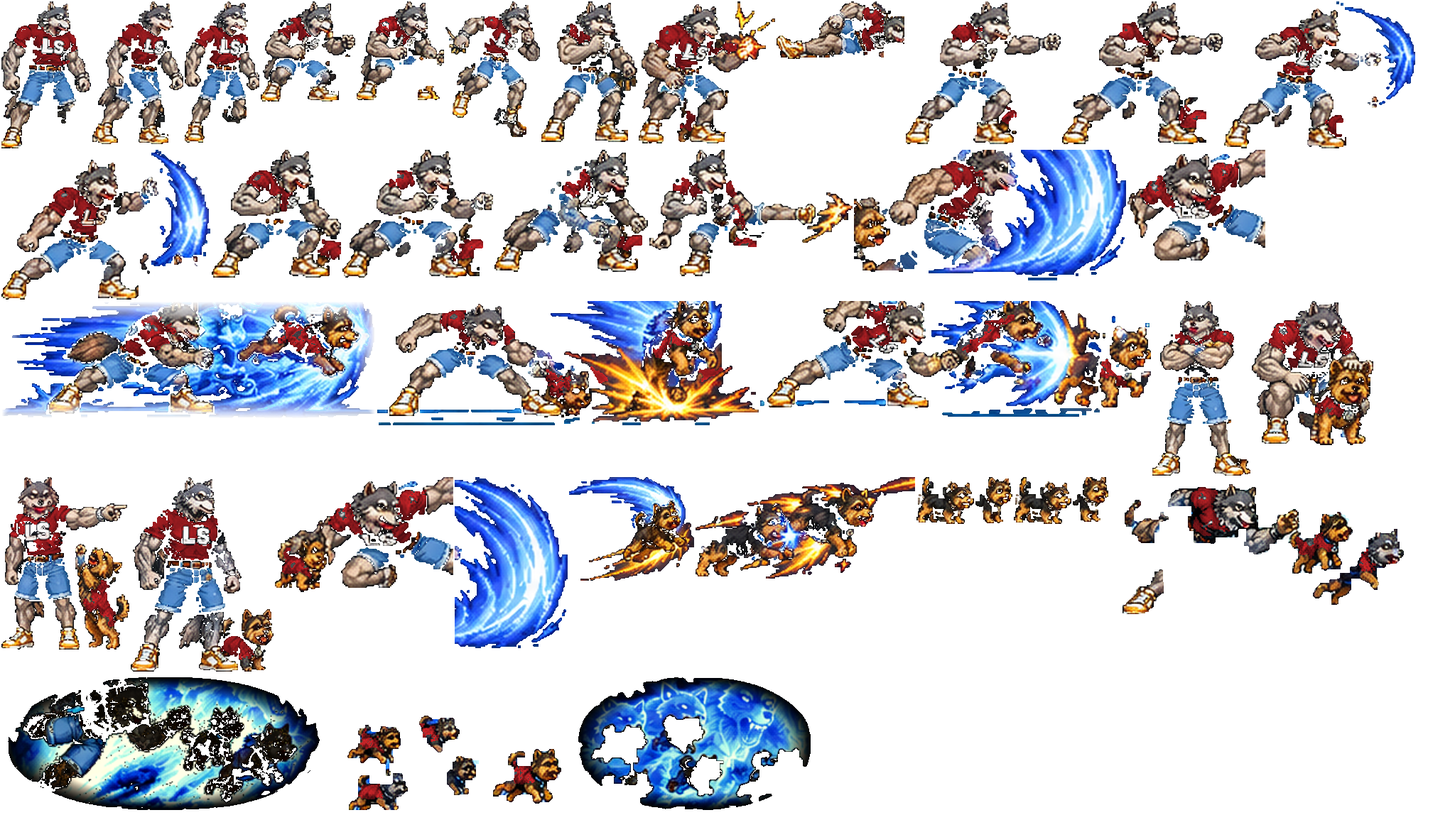
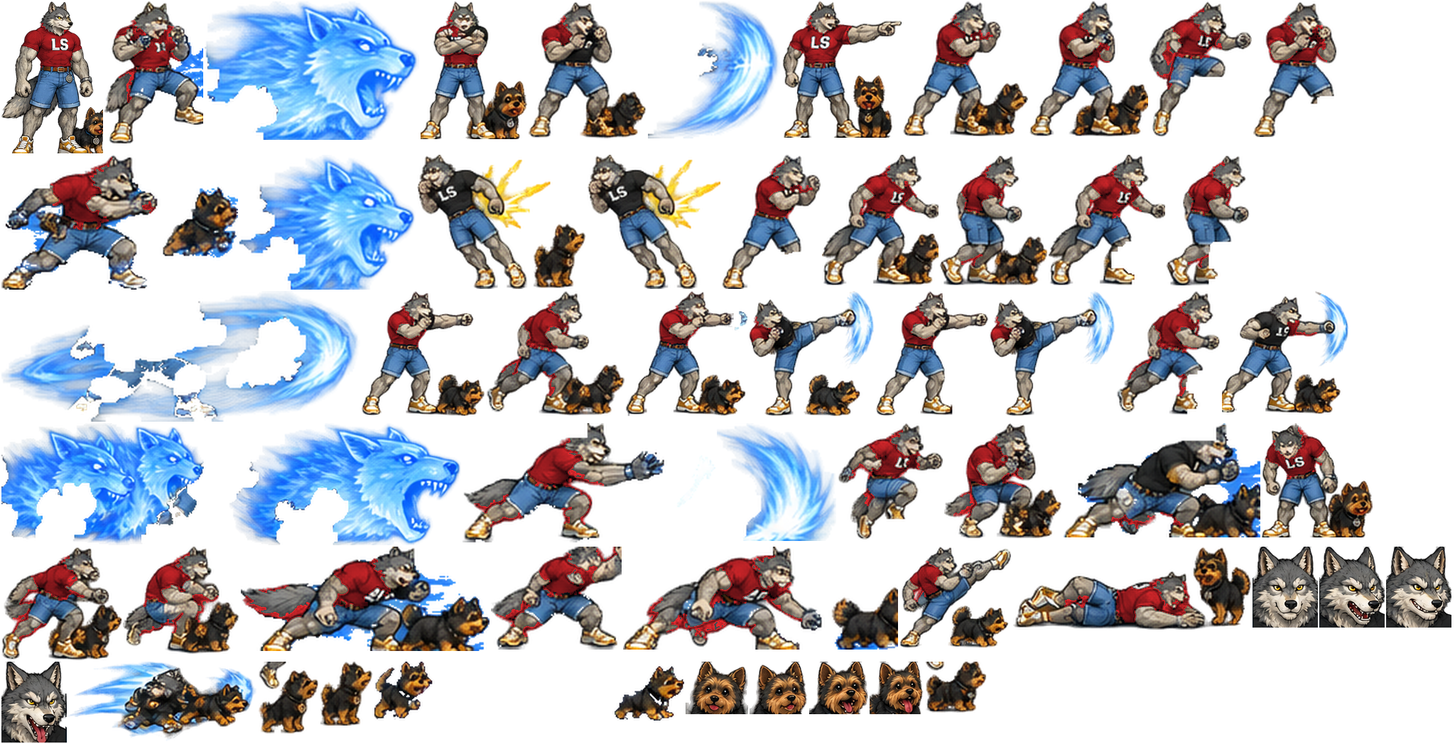
v0.5.3: Lobo refeito com a nova ficha (Claw Slash, Dog Throw, Wolf Spin, Alpha Rush, Tail Sweep, Alpha Roar, super Alpha Pack Lv1/Lv2), Yorkshire no card e HUD (cache bvf-v0.5-3)

diff --git a/js/fighters.js b/js/fighters.js
@@ -39,32 +39,34 @@ const CHARS = {
     proj: { speed: 6.5, dmg: 80, stun: 22, bstun: 14, push: 9, chip: 10, cooldown: 110 },
   },
   lobo: {
-    id: 'lobo', name: 'LOBO SOLITÁRIO', hud: 'LOBO', title: 'The Lone Alpha (+ Yorkshire)', hp: 1000, walkF: 3.3, walkB: 2.8, jumpVX: 4.0, jumpVY: -15.2,
-    standH: 205, crouchH: 140, special: 'lobo', lobo: 1, rich: 1, meterName: 'ALPHA', supers: ['LOBO E SEU AMIGO', 'ALPHA PACK'], superSfx: 'howl',
+    id: 'lobo', name: 'LOBO SOLITÁRIO', hud: 'LOBO', title: 'The Lone Alpha + Yorkshire', hp: 1000, walkF: 3.3, walkB: 2.8, jumpVX: 4.0, jumpVY: -15.2,
+    standH: 200, crouchH: 140, special: 'lobo', lobo: 1, rich: 1, meterName: 'ALPHA', supers: ['ALPHA PACK', 'ALPHA PACK MÁXIMO'], superSfx: 'howl',
     moves: {
-      lp: mv({ anim: 'jab', frames: [{ f: 0, d: 3, anim: 'guard' }, { f: 0, d: 4, a: 1 }, { f: 0, d: 7, anim: 'guard' }], hit: { x0: 25, x1: 92, y0: -175, y1: -135, dmg: 45, stun: 15, bstun: 10, push: 5 }, sfx: 'whoosh' }),
-      hp: mv({ anim: 'fierce', frames: [{ f: 0, d: 6, anim: 'strong' }, { f: 0, d: 6, a: 1 }, { f: 0, d: 12, anim: 'strong' }], hit: { x0: 30, x1: 112, y0: -170, y1: -120, dmg: 80, stun: 19, bstun: 12, push: 8, heavy: 1 }, sfx: 'whoosh' }),
-      lk: mv({ anim: 'claw', frames: [{ f: 0, d: 5, anim: 'strong' }, { f: 0, d: 6, a: 1 }, { f: 0, d: 11, anim: 'guard' }], hit: { x0: 40, x1: 145, y0: -168, y1: -100, dmg: 70, stun: 17, bstun: 11, push: 7 }, sfx: 'whip' }),
-      cp: mv({ anim: 'clp', crouch: 1, frames: [{ f: 0, d: 3, anim: 'crouch' }, { f: 0, d: 4, a: 1, anim: 'cmp' }, { f: 0, d: 7, anim: 'clp' }], hit: { x0: 25, x1: 100, y0: -118, y1: -80, dmg: 40, stun: 13, bstun: 9, push: 5 }, sfx: 'whoosh' }),
-      ck: mv({ anim: 'lowk', crouch: 1, frames: [{ f: 0, d: 5, anim: 'chp' }, { f: 0, d: 5, a: 1 }, { f: 0, d: 12, anim: 'crouch' }], hit: { x0: 35, x1: 150, y0: -40, y1: 0, dmg: 50, stun: 15, bstun: 11, push: 6, lvl: 'low' }, sfx: 'whoosh' }),
-      jp: mv({ anim: 'jab', air: 1, frames: [{ f: 0, d: 3, anim: 'jump' }, { f: 0, d: 30, a: 1, v: { oy: -14 } }], hit: { x0: 20, x1: 90, y0: -170, y1: -110, dmg: 55, stun: 16, bstun: 10, push: 4, lvl: 'high' }, sfx: 'whoosh' }),
-      jk: mv({ anim: 'lowk', air: 1, frames: [{ f: 0, d: 4, anim: 'jump' }, { f: 0, d: 30, a: 1, v: { oy: -40 } }], hit: { x0: 35, x1: 140, y0: -120, y1: -50, dmg: 65, stun: 17, bstun: 11, push: 5, lvl: 'high' }, sfx: 'whoosh' }),
-      slash: mv({ anim: 'slash', special: 1, frames: [{ f: 0, d: 9, anim: 'fierce' }, { f: 0, d: 14, spawn: 'wave', sfx: 'whip' }, { f: 0, d: 10, anim: 'guard' }], hit: null }),
-      throw: mv({ anim: 'throw', special: 1, frames: [{ f: 0, d: 8, anim: 'throwhold' }, { f: 0, d: 20, spawn: 'dog', sfx: 'bark' }, { f: 0, d: 6, anim: 'guard' }], hit: null }),
-      rush: mv({ anim: 'rush', special: 1, frames: [{ f: 0, d: 8, anim: 'crouch' }, { f: 0, d: 16, a: 1, vx: 9, sfx: 'whoosh' }, { f: 0, d: 16, anim: 'guard', vx: 0 }],
-        hit: { x0: 10, x1: 150, y0: -160, y1: -40, dmg: 90, stun: 22, bstun: 14, push: 10, heavy: 1, chip: 10, knock: 1 } }),
-      sweep: mv({ anim: 'sweep', special: 1, crouch: 1, frames: [{ f: 0, d: 9, anim: 'crouch' }, { f: 0, d: 12, a: 1, sfx: 'bark' }, { f: 0, d: 16, anim: 'crouch' }],
-        hit: { x0: 60, x1: 270, y0: -70, y1: 0, dmg: 70, stun: 20, bstun: 12, push: 8, lvl: 'low', chip: 8, knock: 1 } }),
-      double: mv({ anim: 'double', special: 1, frames: [{ f: 0, d: 10, anim: 'strong' }, { f: 0, d: 12, a: 1, sfx: 'bark' }, { f: 0, d: 20, anim: 'guard' }],
-        hit: { x0: 30, x1: 230, y0: -150, y1: -30, dmg: 100, stun: 22, bstun: 14, push: 10, heavy: 1, chip: 12, knock: 1 } }),
-      super1: mv({ anim: 'fierce', special: 1, frames: [{ f: 0, d: 6, anim: 'guard' }, { f: 0, d: 10, a: 1, rh: 1, vx: 7, anim: 'fierce' }, { f: 0, d: 10, a: 1, rh: 1, vx: 7, anim: 'claw' }, { f: 0, d: 10, a: 1, rh: 1, vx: 7, anim: 'strong', hb: { knock: 1, dmg: 90, heavy: 1, push: 10 } }, { f: 0, d: 18, anim: 'claw', vx: 0 }],
-        hit: { x0: 0, x1: 220, y0: -190, y1: 0, dmg: 70, stun: 26, bstun: 12, push: 3, chip: 15, nomtr: 1 } }),
-      super2: mv({ anim: 'claw', special: 1, frames: [{ f: 0, d: 14, anim: 'taunt', sfx: 'howl' }, { f: 0, d: 18, spawn: 'pack' }, { f: 0, d: 16, anim: 'guard' }], hit: null }),
+      lp: mv({ anim: 'jab', frames: [{ f: 0, d: 3, anim: 'guard' }, { f: 0, d: 4, a: 1 }, { f: 0, d: 7 }], hit: { x0: 25, x1: 95, y0: -175, y1: -135, dmg: 45, stun: 15, bstun: 10, push: 5 }, sfx: 'whoosh' }),
+      hp: mv({ anim: 'fierce', frames: [{ f: 0, d: 6, anim: 'strong' }, { f: 0, d: 6, a: 1 }, { f: 0, d: 12, anim: 'strong' }], hit: { x0: 30, x1: 115, y0: -172, y1: -120, dmg: 80, stun: 19, bstun: 12, push: 8, heavy: 1 }, sfx: 'whoosh' }),
+      lk: mv({ anim: 'hk', frames: [{ f: 0, d: 5, anim: 'lowk' }, { f: 0, d: 6, a: 1 }, { f: 0, d: 11, anim: 'guard' }], hit: { x0: 35, x1: 140, y0: -170, y1: -100, dmg: 70, stun: 17, bstun: 11, push: 7 }, sfx: 'whip' }),
+      cp: mv({ anim: 'crouch', crouch: 1, fx: 'jab', frames: [{ f: 0, d: 3, anim: 'cblock' }, { f: 0, d: 4, a: 1 }, { f: 0, d: 7, anim: 'cblock' }], hit: { x0: 25, x1: 100, y0: -118, y1: -80, dmg: 40, stun: 13, bstun: 9, push: 5 }, sfx: 'whoosh' }),
+      ck: mv({ anim: 'sweep', crouch: 1, frames: [{ f: 0, d: 5, anim: 'crouch' }, { f: 0, d: 5, a: 1 }, { f: 0, d: 12, anim: 'crouch' }], hit: { x0: 35, x1: 150, y0: -40, y1: 0, dmg: 50, stun: 15, bstun: 11, push: 6, lvl: 'low' }, sfx: 'whoosh' }),
+      jp: mv({ anim: 'jpa', air: 1, frames: [{ f: 0, d: 3, anim: 'jump' }, { f: 0, d: 30, a: 1, v: { oy: -14 } }], hit: { x0: 20, x1: 90, y0: -170, y1: -110, dmg: 55, stun: 16, bstun: 10, push: 4, lvl: 'high' }, sfx: 'whoosh' }),
+      jk: mv({ anim: 'jka', air: 1, frames: [{ f: 0, d: 4, anim: 'jump' }, { f: 0, d: 30, a: 1, v: { oy: -30 } }], hit: { x0: 35, x1: 140, y0: -150, y1: -60, dmg: 65, stun: 17, bstun: 11, push: 5, lvl: 'high' }, sfx: 'whoosh' }),
+      slash: mv({ anim: 'slash', special: 1, frames: [{ f: 0, d: 9, anim: 'guard' }, { f: 0, d: 14, spawn: 'wave', sfx: 'whip' }, { f: 0, d: 10 }], hit: null }),
+      throw: mv({ anim: 'throw', special: 1, frames: [{ f: 0, d: 8, anim: 'crouch' }, { f: 0, d: 18, spawn: 'dog', sfx: 'bark' }, { f: 0, d: 6 }], hit: null }),
+      spin: mv({ anim: 'spin', special: 1, fx2: 'spinfx', frames: [{ f: 0, d: 6, anim: 'cblock' }, { f: 0, d: 8, a: 1, vx: 3, sfx: 'whip' }, { f: 0, d: 8, a: 1, rh: 1, vx: 3 }, { f: 0, d: 8, a: 1, rh: 1, vx: 2, hb: { knock: 1, dmg: 45, push: 10 } }, { f: 0, d: 14, anim: 'guard', vx: 0 }],
+        hit: { x0: -40, x1: 150, y0: -170, y1: -10, dmg: 35, stun: 18, bstun: 10, push: 3, chip: 6 } }),
+      rush: mv({ anim: 'rush', special: 1, fx2: 'rushhead', frames: [{ f: 0, d: 8, anim: 'crouch' }, { f: 0, d: 16, a: 1, vx: 9, sfx: 'howl' }, { f: 0, d: 14, anim: 'guard', vx: 0 }],
+        hit: { x0: 10, x1: 190, y0: -170, y1: -30, dmg: 90, stun: 22, bstun: 14, push: 10, heavy: 1, chip: 10, knock: 1 } }),
+      sweep: mv({ anim: 'sweep', special: 1, crouch: 1, fx2: 'sweepfx', frames: [{ f: 0, d: 9, anim: 'crouch' }, { f: 0, d: 12, a: 1, sfx: 'bark' }, { f: 0, d: 16, anim: 'crouch' }],
+        hit: { x0: 50, x1: 250, y0: -70, y1: 0, dmg: 70, stun: 20, bstun: 12, push: 8, lvl: 'low', chip: 8, knock: 1 } }),
+      roar: mv({ anim: 'roar', special: 1, frames: [{ f: 0, d: 10, anim: 'guard' }, { f: 0, d: 20, spawn: 'roar', sfx: 'howl' }, { f: 0, d: 12 }], hit: null }),
+      super1: mv({ anim: 'rush', special: 1, frames: [{ f: 0, d: 12, anim: 'superpose' }, { f: 0, d: 22, spawn: 'pack', vx: 5 }, { f: 0, d: 14, anim: 'guard', vx: 0 }], hit: null }),
+      super2: mv({ anim: 'rush', special: 1, frames: [{ f: 0, d: 12, anim: 'superpose' }, { f: 0, d: 26, spawn: 'pack2', vx: 6 }, { f: 0, d: 14, anim: 'taunt', vx: 0 }], hit: null }),
     },
     projs: {
-      wave: { speed: 7, dmg: 75, stun: 22, bstun: 14, push: 9, chip: 10, cooldown: 100, ox: 110, oy: 110, bw: 26, bh: 60 },
-      dog: { speed: 8, dmg: 30, stun: 24, bstun: 14, push: 3, chip: 6, cooldown: 140, ox: 70, oy: 60, bw: 40, bh: 45, maxHits: 3, gap: 12, knockLast: 1, life: 140 },
-      pack: { speed: 6, dmg: 85, stun: 30, bstun: 16, push: 4, chip: 15, ox: 150, oy: 100, bw: 150, bh: 100, maxHits: 3, gap: 9, knockLast: 1, pierce: 1, nomtr: 1 },
+      wave: { speed: 7.5, dmg: 75, stun: 22, bstun: 14, push: 9, chip: 10, cooldown: 100, ox: 95, oy: 95, bw: 30, bh: 60 },
+      dog: { speed: 9, dmg: 30, stun: 24, bstun: 14, push: 3, chip: 6, cooldown: 140, ox: 110, oy: 70, bw: 40, bh: 40, maxHits: 3, gap: 12, knockLast: 1, life: 80 },
+      roar: { speed: 6, dmg: 55, stun: 24, bstun: 14, push: 6, chip: 10, cooldown: 130, ox: 120, oy: 110, bw: 60, bh: 75, maxHits: 2, gap: 10, knockLast: 1 },
+      pack: { speed: 8, dmg: 85, stun: 30, bstun: 16, push: 4, chip: 15, ox: 120, oy: 100, bw: 150, bh: 100, maxHits: 3, gap: 9, knockLast: 1, pierce: 1, nomtr: 1 },
+      pack2: { speed: 9, dmg: 80, stun: 30, bstun: 16, push: 4, chip: 18, ox: 120, oy: 110, bw: 170, bh: 115, maxHits: 5, gap: 7, knockLast: 1, pierce: 1, nomtr: 1, big: 1 },
     },
   },
   go: {
@@ -136,7 +138,7 @@ class Fighter {
     this.x = side === 0 ? 300 : 660; this.y = FLOOR; this.vx = 0; this.vy = 0; this.facing = side === 0 ? 1 : -1;
     this.hp = this.c.hp; this.state = 'idle'; this.t = 0; this.move = null; this.mt = 0; this.hitDone = false; this.stun = 0;
     this.crouching = false; this.cool = 0; this.flash = 0; this.dirHist = []; this.prev = {}; this.inv = 0; this.pushV = 0; this.combo = 0; this.animT = 0; this.pt = {};
-    this.pup = this.c.lobo ? { x: this.x + this.facing * 58, face: this.facing, t: 0, away: false, ret: false, moving: false, hide: false } : null; this.trail = []; this.lastV = null; this.trans = null;
+    this.pup = this.c.lobo ? { x: this.x + this.facing * 55, face: this.facing, t: 0, away: false, ret: false, moving: false, hide: true } : null; this.trail = []; this.lastV = null; this.trans = null;
   }
   get air() { return this.y < FLOOR - 0.01 || this.state === 'air' || this.state === 'fall'; }
   dirNum(inp) { // numpad notation relative to facing
@@ -207,46 +209,47 @@ class Fighter {
   motion(seq, n = 16) { const h = this.dirHist.slice(-n); let k = 0; for (const v of h) if (v === seq[k]) { k++; if (k === seq.length) return true; } return false; }
   dashF() { const h = this.dirHist.slice(-16); let i = h.length - 1; if (h[i] !== 6) return false; while (i >= 0 && h[i] === 6) i--; let j = i; while (j >= 0 && h[j] !== 6 && h[j] === 5) j--; return j >= 0 && j < i && h[j] === 6 && i - j <= 10; }
   // Lobo Solitário command list (keyboard + touch friendly). cancel=true: only P+K combos/supers in the first frames of a normal.
+  // Touch: Especial (=Claw Slash), +← Dog Throw, +→ Alpha Rush, +↓ Tail Sweep, +↘ Alpha Roar, Soco+Chute Wolf Spin,
+  // Especial+Soco / Especial+Chute / SUPER = super (Lv2 with 2 bars). Keyboard motions follow the sheet:
+  // ↓↘→P claw, ↓↙←K dog, →→P rush, ↓↘→K sweep, ↓↙←P roar, ↓↘→↓↘→ P+K super.
   loboInput(press, d, G, cancel) {
     const P = press.punch, K = press.kick, S = press.special;
-    // chord = both buttons went down within 5 frames (~80 ms) of each other, in any order, on any device
     const rec = k => press[k] || this.tick - (this.pt[k] || -99) <= 5;
     const chord = (a, b) => (press[a] || press[b]) && rec(a) && rec(b);
     const used = (...ks) => { for (const k of ks) this.pt[k] = -99; };
-    const q = this.motion([2, 3, 6]), qb = this.motion([2, 1, 4]);
-    if (press.super && this.meter >= 100) return this.doSuper(this.meter >= 200 ? 2 : 1, G);
-    if (this.meter >= 200 && (chord('special', 'kick') || (qb && chord('punch', 'kick')))) { used('special', 'kick', 'punch'); return this.doSuper(2, G); }
-    if (this.meter >= 100 && (chord('special', 'punch') || (q && chord('punch', 'kick')))) { used('special', 'punch', 'kick'); return this.doSuper(1, G); }
-    if (chord('punch', 'kick')) { used('punch', 'kick'); if (this.moveName === 'double' && this.state === 'attack') return true; this.startMove('double', G); return true; }
+    const q = this.motion([2, 3, 6]), qb = this.motion([2, 1, 4]), qq = this.motion([2, 3, 6, 2, 3, 6], 24);
+    const lv = () => this.meter >= 200 ? 2 : 1;
+    if (press.super && this.meter >= 100) return this.doSuper(lv(), G);
+    if (this.meter >= 100 && (chord('special', 'punch') || chord('special', 'kick') || (qq && chord('punch', 'kick')))) { used('special', 'punch', 'kick'); return this.doSuper(lv(), G); }
+    if (chord('punch', 'kick')) { used('punch', 'kick'); if (this.moveName === 'spin' && this.state === 'attack') return true; this.startMove('spin', G); return true; }
     if (cancel) return false;
-    const ownProj = G.projectiles.some(p => p.owner === this && p.kind !== 'pack');
+    const busy = k => G.projectiles.some(p => p.owner === this && p.kind === k);
     let mvn = null;
-    if (S) mvn = d === 4 || d === 1 ? 'throw' : d === 6 ? 'rush' : d === 2 || d === 3 ? 'sweep' : 'slash';
+    if (S) mvn = d === 4 || d === 1 ? 'throw' : d === 6 ? 'rush' : d === 2 ? 'sweep' : d === 3 ? 'roar' : 'slash';
     else if (K && qb) mvn = 'throw';
     else if (K && q) mvn = 'sweep';
+    else if (P && qb) mvn = 'roar';
     else if (P && (q || d === 3)) mvn = 'slash';
     else if (P && this.dashF()) mvn = 'rush';
     if (!mvn) return false;
-    if ((mvn === 'slash' || mvn === 'throw') && (this.cool > 0 || ownProj)) return S; // eat the button, nothing happens
+    if ((mvn === 'slash' || mvn === 'roar' || mvn === 'throw') && (this.cool > 0 || busy('wave') || busy('roar') || busy('dog') || (this.pup && this.pup.ret))) return S;
     this.startMove(mvn, G); this.meter = Math.min(200, this.meter + 4); return true;
   }
   // The Yorkshire is its own sprite: follows the wolf, leaves during Dog Throw and runs back afterwards.
+  // The Yorkshire is baked into most of the user's poses (it stands next to the wolf). It becomes its own sprite only
+  // when the wolf leaves the floor (jumps / falls: the dog waits on the ground) and during Dog Throw (flies, bites, runs back).
   updPup(G) {
     const p = this.pup; p.t++;
-    const away = G.projectiles.some(q => q.owner === this && q.kind === 'dog');
-    if (away) { p.away = true; p.hide = true; return; }
+    if (G.projectiles.some(q => q.owner === this && q.kind === 'dog')) { p.away = true; p.hide = true; return; }
     if (p.away) { p.away = false; p.ret = true; p.x = this.lastDogX != null ? this.lastDogX : p.x; }
-    const mvn = this.state === 'attack' ? this.moveName : '';
-    const winBaked = this.state === 'win' && (this.winPose || 0) % 3 !== 0;
-    p.hide = ['throw', 'rush', 'sweep', 'double', 'slash', 'super2'].includes(mvn) || winBaked;
-    if (p.hide) { p.x = this.x + this.facing * 58; p.ret = false; p.moving = false; return; }
-    const lying = ['fall', 'down', 'ko'].includes(this.state);
-    const tx = this.x + this.facing * (mvn === 'super1' ? 120 : 58);
-    const dx = tx - p.x, ad = Math.abs(dx);
-    if (lying && !p.ret) { p.moving = false; p.face = Math.sign(this.x - p.x) || p.face; return; }
-    if (ad > 2) { const sp = p.ret ? 9 : mvn === 'super1' ? 10 : Math.max(1.5, Math.min(7, ad * 0.18)); p.x += Math.sign(dx) * Math.min(ad, sp); p.moving = ad > 4; p.face = p.moving ? Math.sign(dx) : this.facing; }
-    else { p.moving = false; p.ret = false; p.face = this.facing; }
+    const tx = this.x + this.facing * 55, dx = tx - p.x, ad = Math.abs(dx);
+    if (p.ret) { p.hide = false; p.moving = true; p.face = Math.sign(dx) || p.face; p.x += Math.sign(dx) * Math.min(ad, 10); if (ad < 12) { p.ret = false; p.moving = false; } return; }
+    p.moving = false; p.face = this.facing;
+    const off = this.air || ['fall'].includes(this.state);
+    if (off) { p.hide = false; return; } // stays where it was
+    p.hide = true; p.x = tx;
   }
+  dogOut() { return this.pup && (this.pup.away || this.pup.ret); }
   doSuper(lvl, G) { this.meter -= lvl * 100; this.startMove(lvl === 1 ? 'super1' : 'super2', G); G.superFlash = { t: 0, f: this, name: this.c.supers[lvl - 1] }; G.hitstop = 26; SFX.play(this.c.superSfx); return true; }
   cmdInput(press, d, G, cancel) { return this.id === 'go' ? this.goInput(press, d, G, cancel) : this.loboInput(press, d, G, cancel); }
   // G.O. command list. Touch: Especial (+← +→ +↓ +↘), Soco+Chute, Especial+Soco / Especial+Chute (supers), SUPER button.
@@ -411,7 +414,7 @@ function jogadorVisual(f) {
 // Lobo Solitário: every key pose is a crop of the user's character sheet (tools/build_lobo.py). In-between motion is
 // tweened here (ease in/out offsets, squash & stretch, rotation arcs, cross-fade ghosts, afterimages) - no new art.
 const easeO = x => 1 - (1 - x) * (1 - x), clamp01 = x => Math.max(0, Math.min(1, x));
-function loboVisual(f) {
+function baseVisual(f) {
   const s = f.state, t = f.animT, st = f.t;
   if (s === 'attack' && f.move) {
     const m = f.move, fr = f.curFrame(), i = m.frames.indexOf(fr), p = clamp01((f.mt - f.frameStart(fr)) / fr.d);
@@ -443,11 +446,26 @@ function loboVisual(f) {
     default: { const b = Math.sin(t / 18); return { anim: 'idle', idx: 0, sy: 1 + 0.016 * b, sx: 1 - 0.006 * b, oy: 0 }; }
   }
 }
+// Lobo v3: same tween rig, with the new sheet's own keys (2 idles, 2 walks, jump start / back / jump / land) and
+// dog-less variants while the Yorkshire is away (Dog Throw) or the wolf is airborne.
+const LOBO_NODOG = { idle: 'idleN', walk: 'walkN', guard: 'guardN', crouch: 'crouchN', cblock: 'crouchN', jumpsq: 'crouchN', land: 'crouchN', hit: 'hitw',
+  jab: 'jpa', strong: 'jpa', fierce: 'jpa', hk: 'jka', lowk: 'jka', spin: 'throw', sweep: 'throw' };
+function loboVisual(f) {
+  const v = baseVisual(f), s = f.state, st = f.t, t = f.animT;
+  if (s === 'idle' || (s !== 'attack' && v.anim === 'idle')) { v.idx = Math.floor(t / 34) % 2; }
+  else if (s === 'walk') { const ph = t / 10; v.idx = Math.floor(ph) % 2; }
+  else if (s === 'jumpsq') { v.anim = 'jumpsq'; v.sy = 0.96; v.sx = 1.03; }
+  else if (s === 'land') { const k = clamp01(st / 6); v.anim = 'land'; v.sy = 0.94 + 0.06 * easeO(k); v.sx = 1.04 - 0.04 * k; }
+  else if (s === 'air') v.anim = f.vx * f.facing < -0.5 ? 'jumpb' : 'jump';
+  else if (s === 'fall' && v.anim === 'hit') v.anim = 'hitw';
+  if (f.dogOut() && LOBO_NODOG[v.anim]) v.anim = LOBO_NODOG[v.anim];
+  return v;
+}
 // G.O.: same tween rig as Lobo, plus the sheet's 3 idle and 3 walk frames and its own jump/land/guard keys.
 function goVisual(f) {
   const s = f.state, t = f.animT, st = f.t;
   if (s === 'attack' && f.move) {
-    const v = loboVisual(f), mvn = f.moveName;
+    const v = baseVisual(f), mvn = f.moveName;
     if (mvn === 'super1' || mvn === 'super2') { const fr = f.curFrame(); if (fr.spawn) { v.ox = 0; v.rot = 0; v.sx = 1; v.sy = 1 + 0.01 * Math.sin(t / 3); } }
     return v;
   }
@@ -463,15 +481,14 @@ function goVisual(f) {
     case 'getup': { if (st < 12) { const k = st / 12; return { anim: 'crouch', idx: 0, sy: 0.6 + 0.4 * easeO(k), rot: -0.2 * (1 - k), ox: -6 }; }
       if (st < 20) return { anim: 'hunch', idx: 0, ox: -3 }; const k = clamp01((st - 20) / 8); return { anim: 'guard', idx: 0, sy: 0.95 + 0.05 * easeO(k) }; }
     case 'crouch': return { anim: 'crouch', idx: 0, sy: 1 + 0.01 * Math.sin(t / 16) };
-    default: return loboVisual(f);
+    default: return baseVisual(f);
   }
 }
 function drawPup(ctx, f, G) {
   const p = f.pup; if (!p || p.hide) return;
-  const anim = p.moving ? 'pupWalk' : (f.crouching || f.state === 'crouch') ? 'pupCrouch' : 'pupIdle';
-  const idx = p.moving ? cyc(p.t, 2, 5) : 0, oy = p.moving ? -Math.abs(Math.sin(p.t / 5 * Math.PI)) * 5 : 0;
+  const idx = p.moving ? [0, 2][cyc(p.t, 2, 5)] : 2, oy = p.moving ? -Math.abs(Math.sin(p.t / 5 * Math.PI)) * 6 : 0;
   ctx.save(); ctx.globalAlpha = 0.3; ctx.fillStyle = '#000'; ctx.beginPath(); ctx.ellipse(p.x, FLOOR + 2, 26, 5, 0, 0, Math.PI * 2); ctx.fill(); ctx.restore();
-  drawFrame(ctx, { id: 'lobo', x: p.x, y: FLOOR, facing: p.face, tinted: false }, anim, idx, { oy, sy: p.moving ? 1 : 1 + 0.02 * Math.sin(p.t / 14) });
+  drawFrame(ctx, { id: 'lobo', x: p.x, y: FLOOR, facing: p.face, tinted: false }, 'pupIdle', idx, { oy, sy: p.moving ? 1 : 1 + 0.02 * Math.sin(p.t / 14) });
 }
 function drawFighter(ctx, f, G) {
   if (!Sprites.ready) return;
@@ -482,13 +499,12 @@ function drawFighter(ctx, f, G) {
   ctx.beginPath(); ctx.ellipse(f.x, FLOOR + 2, Math.max(16, sw), 7, 0, 0, Math.PI * 2); ctx.fill(); ctx.restore();
   if (f.c.rich) {
     // cross-fade ghost of the previous key pose for a few frames = cheap in-between
-    if (f.lastV && (f.lastV.anim !== v.anim || (f.id === 'go' && f.lastV.idx !== v.idx))) f.trans = { v: f.lastV, t: 0 };
+    if (f.lastV && (f.lastV.anim !== v.anim || ((f.id === 'go' || f.id === 'lobo') && f.lastV.idx !== v.idx))) f.trans = { v: f.lastV, t: 0 };
     f.lastV = v;
     const mvn = f.state === 'attack' ? f.moveName : '';
-    const fast = (mvn === 'rush' || mvn === 'dash' || (mvn === 'super1' && f.id === 'lobo')) && f.curFrame() && f.curFrame().a;
+    const fast = (mvn === 'rush' || mvn === 'dash' || (/^super/.test(mvn) && f.id === 'lobo')) && f.curFrame() && f.curFrame().a;
     if (fast || (f.state === 'fall')) { if (G.frame % 2 === 0) f.trail.push({ x: f.x, y: f.y, v }); if (f.trail.length > 5) f.trail.shift(); } else if (f.trail.length) f.trail.shift();
-    if (f.id === 'lobo' && mvn === 'super1' && f.mt >= 4) { const m = Sprites.lobo.meta.super1a[0]; ctx.save(); ctx.globalCompositeOperation = 'screen'; ctx.globalAlpha = Math.min(1, (f.mt - 4) / 6) * (0.8 + 0.2 * Math.sin(G.frame / 2));
-      drawFrame(ctx, { ...f, tinted: false }, 'super1a', 0, { ox: 30, oy: 0 }); ctx.restore(); }
+    if (f.id === 'lobo') drawLoboAura(ctx, f, G, v, mvn);
     if (f.id === 'go') drawGoAura(ctx, f, G, v, mvn);
     ctx.save(); ctx.globalCompositeOperation = 'lighter';
     f.trail.forEach((tr, i) => drawFrame(ctx, { ...f, x: tr.x, y: tr.y }, tr.v.anim, tr.v.idx, { ...tr.v, alpha: 0.10 + i * 0.05 }));
@@ -501,6 +517,17 @@ function drawFighter(ctx, f, G) {
   if (f.flash > 0) drawFrame(ctx, f, v.anim, v.idx, { ...v, white: true, alpha: Math.min(0.5, f.flash / 8) });
   // move effects (honest approximations for frames the art does not have)
   if (f.state === 'attack' && f.move && f.move.fx) { const fr = f.curFrame(); if (fr.a) drawSwoosh(ctx, f, f.move.fx, f.move.hit); }
+}
+// Lobo light layers: the sheet's own blue effects (cut as glow-only sprites), drawn additive behind the body
+function drawLoboAura(ctx, f, G, v, mvn) {
+  const m = f.move, fr = f.curFrame && f.curFrame(); if (!m || !m.fx2 || !fr || !fr.a) return;
+  const k = clamp01((f.mt - f.frameStart(fr)) / 4);
+  ctx.save(); ctx.globalCompositeOperation = 'screen';
+  const o = { id: 'lobo', x: f.x, y: f.y, facing: f.facing, tinted: false };
+  if (m.fx2 === 'rushhead') drawFrame(ctx, o, 'rushhead', 0, { ox: 60, oy: -6, alpha: 0.9 * k, sx: 0.9 + 0.1 * k, sy: 0.9 + 0.1 * k });
+  else if (m.fx2 === 'sweepfx') drawFrame(ctx, o, 'sweepfx', 0, { ox: 120, oy: 0, alpha: 0.9 * k });
+  else drawFrame(ctx, o, m.fx2, 0, { ...v, alpha: 0.85 * k, rot: (v.rot || 0) + Math.sin(G.frame / 3) * 0.03 });
+  ctx.restore();
 }
 // G.O. light layers (additive, cut from the sheet's own effect art)
 function drawGoAura(ctx, f, G, v, mvn) {

diff --git a/js/game.js b/js/game.js
@@ -238,7 +238,7 @@ function updateProjectiles() {
   }
   G.projectiles = G.projectiles.filter(p => !p.dead);
 }
-// Lobo projectiles: wave (Alpha Claw Slash), dog (Dog Throw -> Yorkshire Attack, latches and bites up to 3x), pack (Alpha Pack super)
+// Lobo projectiles: wave (Claw Slash), dog (Dog Throw, bites up to 3x), roar (Alpha Roar), pack/pack2 (super Lv1/Lv2)
 function updateLoboProj(p, def) {
   const P = p.P; p.t++; if (p.hcd > 0) p.hcd--;
   if (P.grav) { p.vy += P.grav; p.y += p.vy; if (p.y > FLOOR - 12) p.dead = true; }
@@ -287,17 +287,18 @@ G.randomize = function (me, opp) { // Randomize: roll the dice -> one of 4 outco
 };
 function drawLoboProj(p) {
   if (p.owner.id === 'go') return drawGoProj(p);
-  const S = Sprites.lobo;
-  if (p.kind === 'pack') { // Alpha Pack: spectral wolves as additive light (no panel box) + the real Yorkshires on top
-    const m = S.meta.super2a[0], o = { id: 'lobo', x: p.x, y: p.y + m.h / 2, facing: p.dir, tinted: false };
-    ctx.save(); ctx.globalCompositeOperation = 'screen'; ctx.globalAlpha = Math.min(1, p.t / 8) * (0.85 + 0.15 * Math.sin(p.t / 2)); drawFrame(ctx, o, 'super2a', 0, {}); ctx.restore();
-    drawFrame(ctx, o, 'super2n', 0, { oy: Math.sin(p.t / 3) * 3 }); return;
+  const S = Sprites.lobo, add = (anim, opt, x = p.x, y = p.y) => { const m = S.meta[anim][0]; ctx.save(); ctx.globalCompositeOperation = 'screen'; drawFrame(ctx, { id: 'lobo', x, y: y + m.h / 2, facing: p.dir, tinted: false }, anim, 0, opt); ctx.restore(); };
+  const fade = p.P.life ? clamp01((p.P.life - p.t) / 8) : 1, pul = 0.88 + 0.12 * Math.sin(p.t / 2);
+  if (p.kind === 'pack' || p.kind === 'pack2') { // spectral pack (glow) + the real Yorkshires running in front
+    const sc = p.P.big ? 1.12 : 1; add('packa', { alpha: Math.min(1, p.t / 6) * pul, sx: sc, sy: sc });
+    drawFrame(ctx, { id: 'lobo', x: p.x, y: FLOOR, facing: p.dir, tinted: false }, 'packn', 0, { oy: -Math.abs(Math.sin(p.t / 3)) * 5 }); return;
   }
-  const anim = p.kind === 'wave' ? 'wave' : p.stick ? 'dogatk' : 'dogfly';
-  const m = S.meta[anim][0]; const shake = p.stick ? Math.sin(p.t * 1.3) * 3 : 0;
-  ctx.save(); if (p.kind === 'wave') ctx.globalCompositeOperation = 'lighter';
-  drawFrame(ctx, { id: 'lobo', x: p.x + shake, y: p.y + m.h / 2, facing: p.dir, tinted: false }, anim, 0, {});
-  ctx.restore();
+  if (p.kind === 'wave') return add('wave', { alpha: pul, sx: 0.9 + 0.1 * Math.min(1, p.t / 6) });
+  if (p.kind === 'roar') return add('roarhead', { alpha: Math.min(1, p.t / 5) * pul, sx: 0.85 + 0.15 * Math.min(1, p.t / 10), sy: 0.85 + 0.15 * Math.min(1, p.t / 10) });
+  // Dog Throw: the flying Yorkshire with its blue trail (cut from the Dog Throw panel); latched = shaking bite, no trail
+  const m = S.meta.dogfly[0], shake = p.stick ? Math.sin(p.t * 1.3) * 3 : 0;
+  if (p.stick) drawFrame(ctx, { id: 'lobo', x: p.x + shake, y: p.y + 45, facing: p.dir, tinted: false }, 'pupIdle', 0, { rot: Math.sin(p.t) * 0.15 });
+  else drawFrame(ctx, { id: 'lobo', x: p.x, y: p.y + m.h / 2, facing: p.dir, tinted: false }, 'dogfly', 0, { alpha: fade });
 }
 G.smogOn = me => G.smog.some(s => s.victim === me && s.t < 75);
 G.dust = x => { for (let i = 0; i < 6; i++) G.particles.push({ x: x + (Math.random() - 0.5) * 50, y: FLOOR - 4, vx: (Math.random() - 0.5) * 2, vy: -Math.random() * 1.2, r: 5 + Math.random() * 5, life: 26, t: 0, a: 0.45, dust: 1 }); };
@@ -383,6 +384,12 @@ function portrait(f, x, y, flip) {
   const S = Sprites[f.id]; if (!S) return;
   if (f.id === 'go') { const m = S.meta.face[0]; ctx.save(); ctx.fillStyle = '#120c24'; ctx.fillRect(x, y, 60, 60); ctx.beginPath(); ctx.rect(x, y, 60, 60); ctx.clip(); ctx.translate(x + 30, y); ctx.scale(flip ? -1 : 1, 1);
     const sc = 60 / Math.min(m.w, m.h * 0.8); ctx.drawImage(f.tinted ? S.tint : S.img, m.x, m.y, m.w, m.h, -m.w * sc / 2, -4, m.w * sc, m.h * sc); ctx.restore(); ctx.strokeStyle = '#fff'; ctx.lineWidth = 2; ctx.strokeRect(x, y, 60, 60); return; }
+  if (f.id === 'lobo') { const face = f.hp < f.c.hp * 0.3 ? 'fSedento' : (f.state === 'hit' || f.state === 'fall') ? 'fBravo' : f.state === 'win' ? 'fSorrindo' : 'fNormal';
+    const m = S.meta[face][0], d = S.meta[f.dogOut && f.dogOut() ? 'dAtacando' : f.state === 'attack' ? 'dLatindo' : 'dNormal'][0];
+    ctx.save(); ctx.fillStyle = '#120c24'; ctx.fillRect(x, y, 60, 60); ctx.beginPath(); ctx.rect(x, y, 60, 60); ctx.clip(); ctx.translate(x + 30, y); ctx.scale(flip ? -1 : 1, 1);
+    ctx.drawImage(f.tinted ? S.tint : S.img, m.x, m.y, m.w, m.h, -32, 0, 64, 64 * m.h / m.w); ctx.restore(); ctx.strokeStyle = '#fff'; ctx.lineWidth = 2; ctx.strokeRect(x, y, 60, 60);
+    const bx = flip ? x - 6 : x + 38, by = y + 40; ctx.save(); ctx.beginPath(); ctx.arc(bx + 14, by + 14, 15, 0, Math.PI * 2); ctx.fillStyle = '#1a1030'; ctx.fill(); ctx.clip();
+    ctx.drawImage(S.img, d.x, d.y, d.w, d.h, bx - 2, by - 2, 32, 32 * d.h / d.w); ctx.restore(); ctx.strokeStyle = '#ffd23a'; ctx.lineWidth = 2; ctx.beginPath(); ctx.arc(bx + 14, by + 14, 15, 0, Math.PI * 2); ctx.stroke(); return; }
   const m = S.meta[f.id === 'jogador' ? 'stance' : 'idle'][0];
   ctx.save(); ctx.fillStyle = '#120c24'; ctx.fillRect(x, y, 60, 60); ctx.beginPath(); ctx.rect(x, y, 60, 60); ctx.clip();
   const sx = m.x + m.ax - 26 + (f.id === 'jogador' ? 2 : 0);
@@ -455,7 +462,10 @@ function drawSelect() {
     const tinted = G.selStep === 1 && G.pick[0] === id;
     if (Sprites.ready) { ctx.save(); ctx.beginPath(); ctx.rect(x, y, w, h); ctx.clip();
       if (id === 'go') { ctx.save(); ctx.globalCompositeOperation = 'lighter'; drawFrame(ctx, { id, x: x + w / 2, y: y + h - 70, facing: 1, tinted }, 'dicecloud', 0, { oy: -150, alpha: 0.35 + 0.15 * Math.sin(G.frame / 12) }); ctx.restore(); }
-      drawFrame(ctx, { id, x: x + w / 2, y: y + h - 70, facing: i === 1 ? -1 : 1, tinted }, id === 'jogador' ? 'stance' : 'idle', id === 'mukira' ? cyc(G.frame, 4, 12) : id === 'go' ? [0, 1, 2, 1][Math.floor(G.frame / 14) % 4] : 0, {}); ctx.restore(); }
+      if (id === 'lobo') { drawFrame(ctx, { id, x: x + w / 2, y: y + h - 66, facing: 1, tinted }, 'card', 0, { sy: 1 + 0.01 * Math.sin(G.frame / 18) });
+        drawFrame(ctx, { id, x: x + w - 34, y: y + 92, facing: 1, tinted: false }, ['dNormal', 'dAtento', 'dAtacando', 'dLatindo'][Math.floor(G.frame / 40) % 4], 0, { sx: 0.62, sy: 0.62 });
+        ctx.strokeStyle = '#ffd23a'; ctx.lineWidth = 2; ctx.beginPath(); ctx.arc(x + w - 34, y + 70, 28, 0, Math.PI * 2); ctx.stroke(); }
+      else drawFrame(ctx, { id, x: x + w / 2, y: y + h - 70, facing: i === 1 ? -1 : 1, tinted }, id === 'jogador' ? 'stance' : 'idle', id === 'mukira' ? cyc(G.frame, 4, 12) : id === 'go' ? [0, 1, 2, 1][Math.floor(G.frame / 14) % 4] : 0, {}); ctx.restore(); }
     const nm = CHARS[id].name; txt(nm, x + w / 2, y + h - 46, Math.min(28, Math.floor(w * 1.55 / nm.length)), '#fff', 'center', '900', 5);
     txt(CHARS[id].title, x + w / 2, y + h - 18, w < 250 ? 12 : 15, '#cbbfff', 'center', '700', 3);
     if (G.selStep === 1 && G.pick[0] === id) txt('P1', x + 22, y + 20, 18, '#3cf', 'center', '900', 4);
@@ -463,11 +473,11 @@ function drawSelect() {
   });
   if (G.selStep === 1 && CHAR_IDS[G.selCur[1]] === G.pick[0]) txt('Espelho: o adversário usa outras cores', VW / 2, 474, 15, '#cbbfff', 'center', '600', 3);
   const info = ['Especial: chicote de barba de longo alcance (Especial ou ↘ + Soco)', 'Especial: anel de fumaça que atravessa a tela e cega (Especial ou ↘ + Soco)',
-    'Especial: garra azul · Esp+← cachorro · Esp+→ investida · Esp+↓ rasteira',
+    'Especial: Claw Slash · Esp+← cachorro · Esp+→ Alpha Rush · Esp+↓ rasteira · Esp+↘ Alpha Roar',
     'Especial: dado de dados · Esp+← chuva de dados · Esp+→ Bit Dash · Esp+↓ jaula · Esp+↘ Hack Grab'][G.selCur[G.selStep]];
   txt(info, VW / 2, 494, 15, '#fff', 'center', '600', 3);
   if (CHAR_IDS[G.selCur[G.selStep]] === 'go') txt('Soco+Chute: Randomize (sorte ou azar) · Supers (barra DATA): Especial+Soco · Especial+Chute · botão SUPER', VW / 2, 516, 14, '#bfe8ff', 'center', '600', 3);
-  if (CHAR_IDS[G.selCur[G.selStep]] === 'lobo') txt('Soco+Chute: ataque duplo · Supers (barra ALPHA): Especial+Soco · Especial+Chute · botão SUPER', VW / 2, 516, 14, '#bfe8ff', 'center', '600', 3);
+  if (CHAR_IDS[G.selCur[G.selStep]] === 'lobo') txt('Soco+Chute: Wolf Spin · Super Alpha Pack (barra ALPHA, Lv2 com 2 barras): Especial+Soco/Chute · botão SUPER', VW / 2, 516, 14, '#bfe8ff', 'center', '600', 3);
   button('back', '‹', 20, VH - 64, 50, 48, false);
 }
 function drawResult() {
@@ -484,7 +494,7 @@ function drawPause() {
   txt('Controles: ← → andar · ↑ pular · ↓ agachar · segurar para trás = defender', VW / 2, 440, 15, '#fff', 'center', '600', 3);
   txt('Soco · Chute · Especial  (↘ + Soco também solta o especial)  ·  → + Soco = soco forte', VW / 2, 466, 15, '#fff', 'center', '600', 3);
   if (G.fighters.some(f => f.id === 'go')) txt('G.O.: Especial (+← dados, +→ dash, +↓ jaula, +↘ agarrão) · Soco+Chute Randomize · Esp+Soco / Esp+Chute supers', VW / 2, 514, 13, '#bfe8ff', 'center', '600', 3);
-  if (G.fighters.some(f => f.id === 'lobo')) txt('Lobo: Especial (+← cachorro, +→ investida, +↓ rasteira) · Soco+Chute duplo · Especial+Soco super 1 · Especial+Chute super 2', VW / 2, 492, 13, '#bfe8ff', 'center', '600', 3);
+  if (G.fighters.some(f => f.id === 'lobo')) txt('Lobo: Especial (+← cachorro, +→ investida, +↓ rasteira, +↘ uivo) · Soco+Chute giro · Especial+Soco/Chute super', VW / 2, 492, 13, '#bfe8ff', 'center', '600', 3);
 }
 
 // ---------- menu keyboard ----------

diff --git a/sw.js b/sw.js
@@ -1,4 +1,4 @@
-const CACHE = 'bvf-v0.5-2';
+const CACHE = 'bvf-v0.5-3';
 const FILES = ['./', 'index.html', 'style.css', 'manifest.webmanifest', 'js/audio.js', 'js/input.js', 'js/stage.js', 'js/fighters.js', 'js/game.js',
   'assets/mukira/atlas.png', 'assets/mukira/atlas.json', 'assets/jogador/atlas.png', 'assets/jogador/atlas.json', 'assets/lobo/atlas.png', 'assets/lobo/atlas.json', 'assets/lobo/atlas_p2.png', 'assets/go/atlas.png', 'assets/go/atlas.json', 'icons/icon-192.png', 'icons/icon-512.png', 'icons/icon-180.png'];
 self.addEventListener('install', e => { e.waitUntil(caches.open(CACHE).then(c => c.addAll(FILES)).then(() => self.skipWaiting())); });
